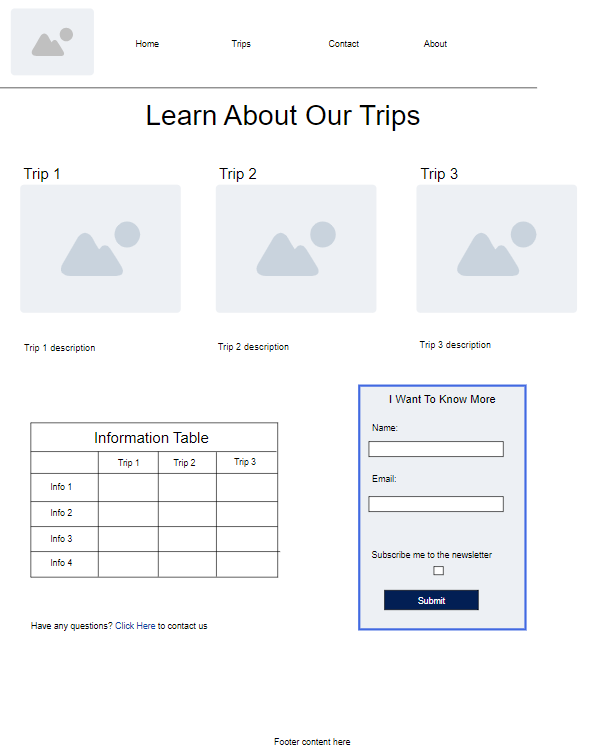
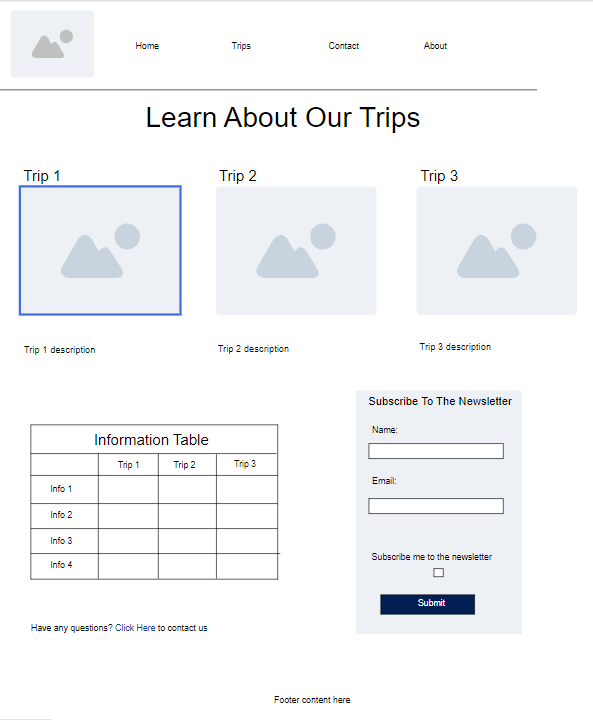
form

diff --git a/wwr/trips.html b/wwr/trips.html
@@ -79,7 +79,7 @@
                 </table>
                 <form>
                     <fieldset>
-                        <legend>I Want To Know More</legend>
+                        <legend>Subscribe To The Newsletter</legend>
                         <label for="name">Name:</label>
                         <input type="text" name="name" id="name">
                         <label for="email">Email:</label>
